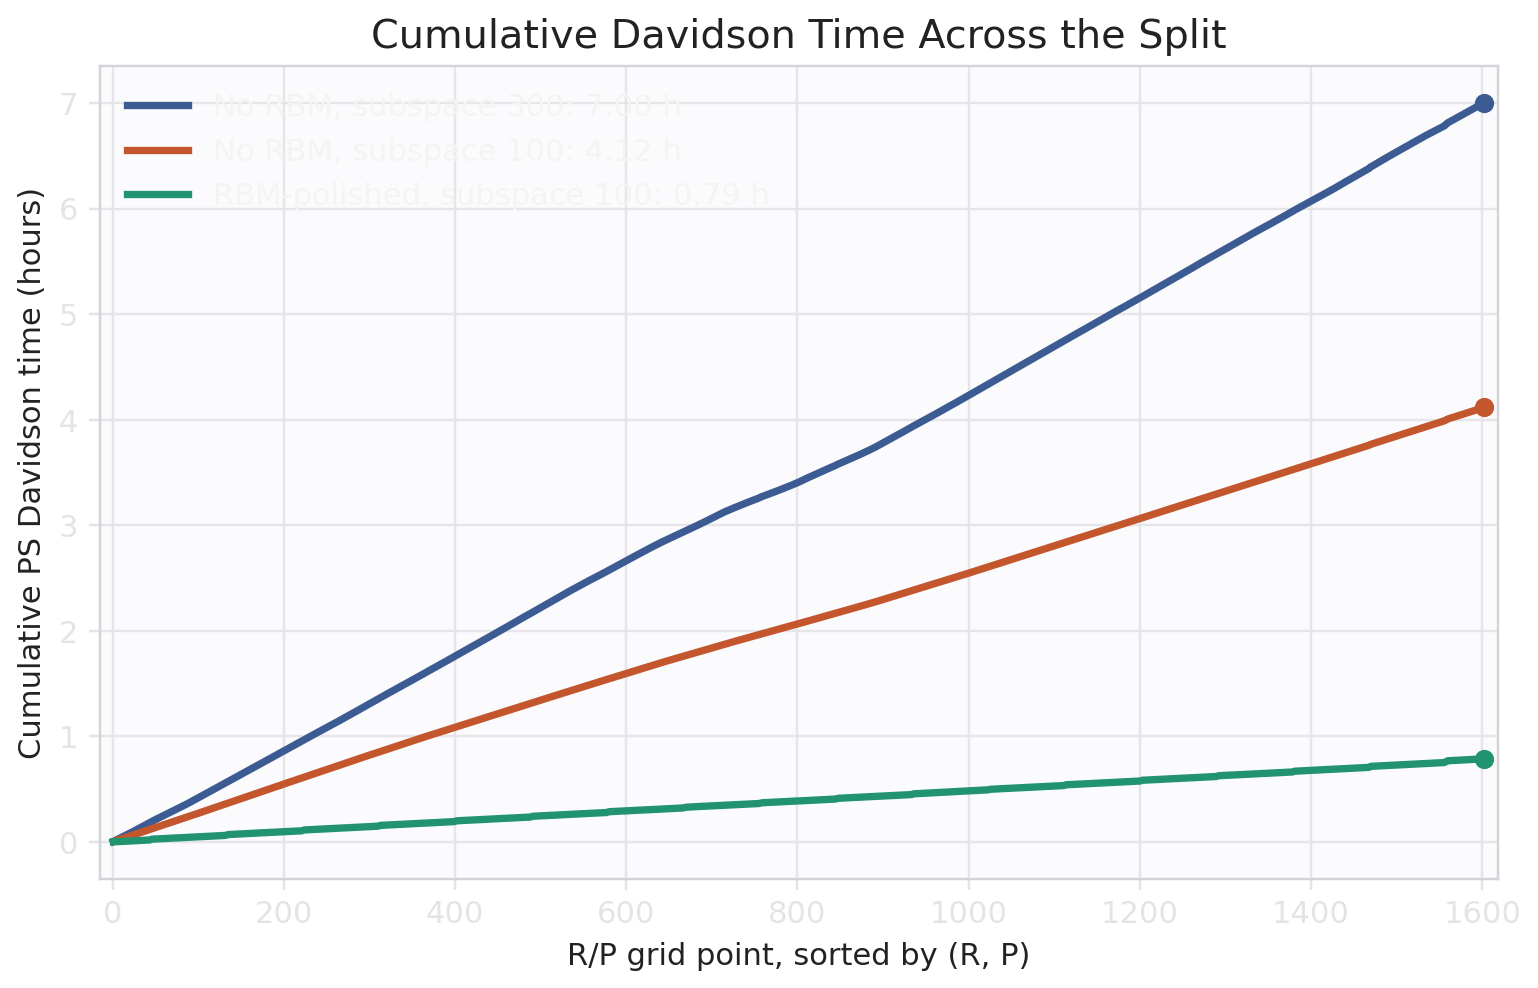
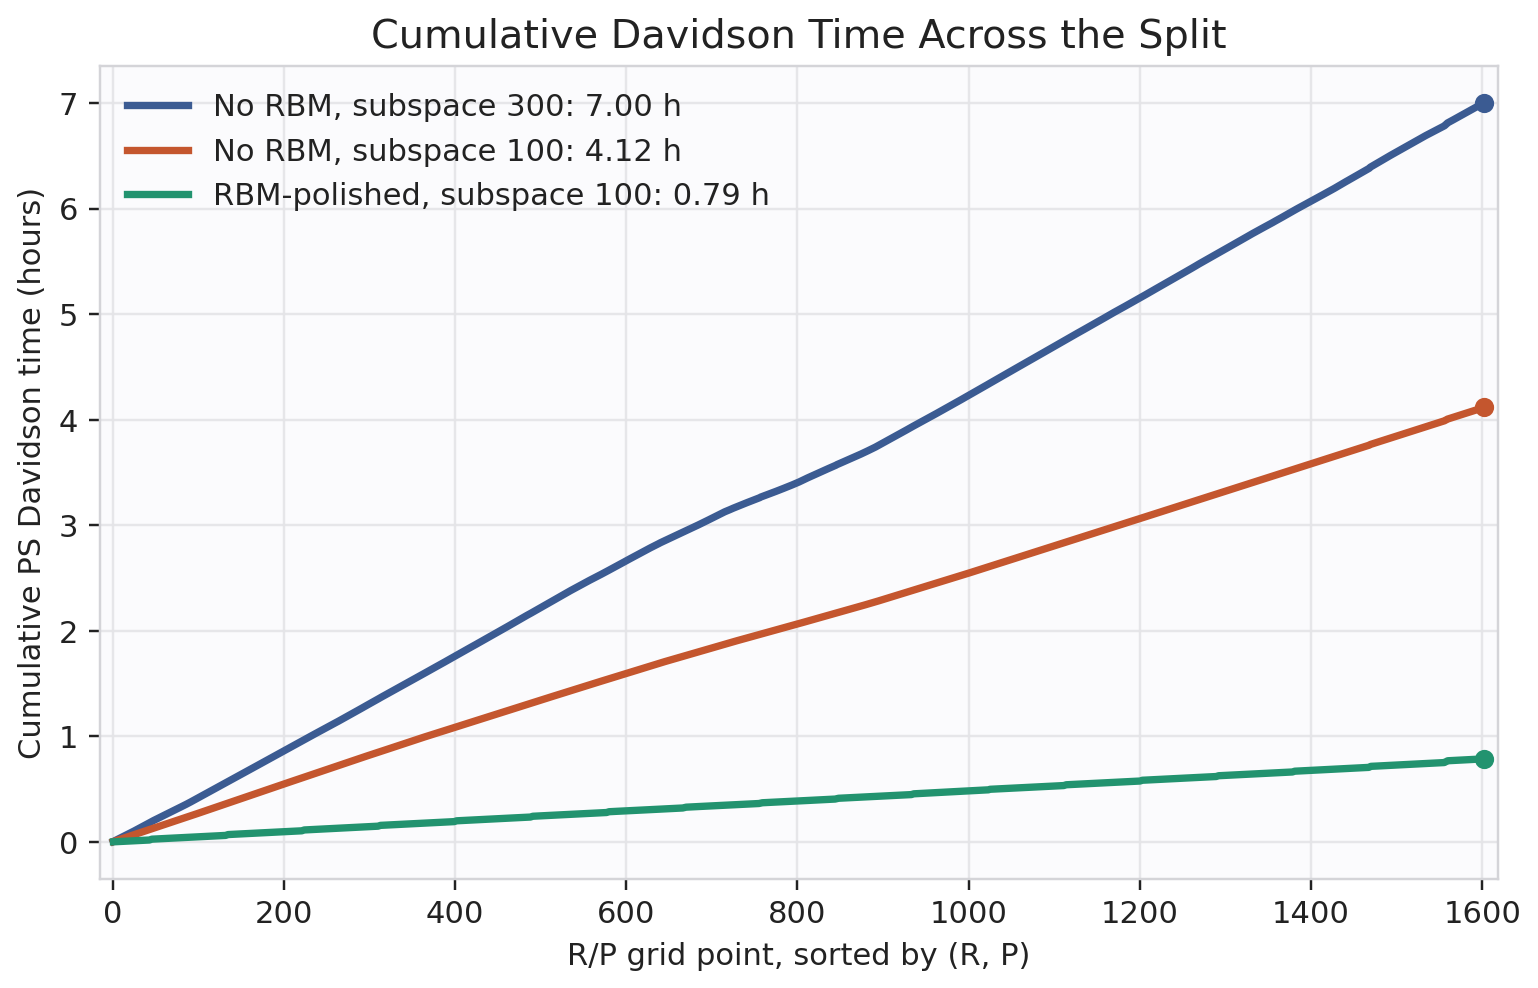
fixed blog figs

diff --git a/writing/gpu-eigensolver.md b/writing/gpu-eigensolver.md
@@ -481,7 +481,6 @@ NVTX profiling for Davidson steps for different subspaces:
 | Complex-copy kernels | 6.71 s | 4.68 s | 4.56 s |
 | `cudaMalloc` API time | 16.75 s | 2.77 s | 1.54 s |
 
-
 We see that for a subspace size 300, all ~106 Hamiltonian applications together
 took **0.69 s out of a 45.84 s solve**, about **1.5%** of wall time. Each matvec was
 only ~6.5 ms. The remaining time was Davidson's basis machinery: reconstructing
@@ -599,7 +598,7 @@ sweep branch has little or no history and therefore runs close to the ordinary
 warm-start cost. After two snapshots, the reduced basis is accurate enough that
 the bulk of the grid collapses to a small number of Davidson polish cycles.
 
-![Davidson cycle-count heatmaps over the R/P grid for the three configurations; RBM collapses the bulk to ~17 cycles.](/assets/performance_split1/blog_figures/cycle_heatmaps_three_way.png)
+![Davidson cycle-count heatmaps over the R/P grid for the three configurations; RBM collapses the bulk to ~17 cycles.](/assets/cycle_heatmaps_three_way.png)
 
 The two no-RBM panels are a nearly uniform ~84 cycles everywhere. The RBM panel is
 almost entirely dark (~17 cycles), except for two bright vertical stripes — the
@@ -610,8 +609,11 @@ the remaining grid points require only a small number of polish cycles.
 ### 2.5 Output: The Phase-Space Energy Surface
 
 All of this exists to produce one object: the phase-space energy surface
-`E(R, P)` that the new physics method needs. For this split, the ground and
-first-excited surfaces were computed in **47 minutes instead of 7 hours**:
+`E(R, P)` that the new physics method needs. To run the full sweep, the `R` grid
+was divided into MPI-like chunks and distributed across multiple GPUs; afterward,
+the partial surfaces were stitched back together for analysis. For the split
+shown here, the ground and first-excited surfaces were computed in **47 minutes
+instead of 7 hours**:
 
 ![Ground-state and excited-state phase-space energy surfaces over the populated R/P region for split 1.](/assets/energy_surfaces_gs_es.png)
 
@@ -638,4 +640,3 @@ initial subspace.
   most of the performance gain with less implementation risk, but the profiling
   result points to Chebyshev-filtered subspace iteration as the natural next
   structural alternative.
-
